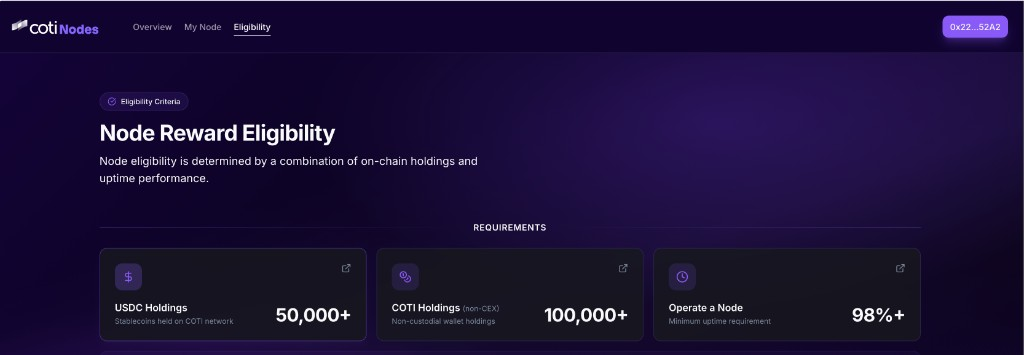
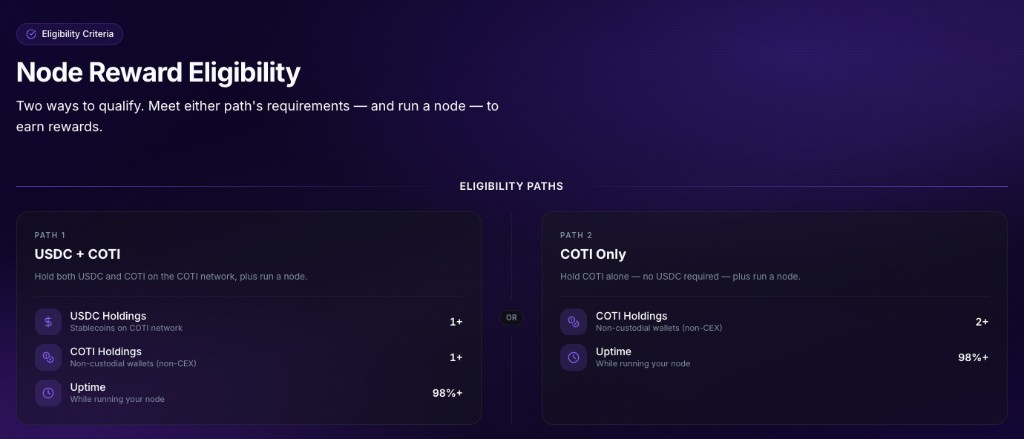
Update eligibility criteria in documentation and image
- Revised the eligibility rules in backend-services.md, features.md, and glossary.md to clarify the two distinct paths for node reward eligibility: Path 1 (USDC + COTI) and Path 2 (COTI only), emphasizing that uptime is mandatory for both.
- Enhanced the eligibility section in the README.md to reflect the updated paths and their requirements.
- Updated the eligibility image to visually represent the new criteria and paths for better user understanding.

diff --git a/node-ecosystem/ui-guide/README.md b/node-ecosystem/ui-guide/README.md
@@ -13,7 +13,7 @@ The top-level navigation exposes three tabs: **Overview**, **My Node**, and **El
 | `/setup`       | (from Join)             | 7-step guided installation wizard                               |
 | `/my-nodes`    | My Node                 | Per-operator dashboard (wallet-gated)                           |
 | `/edit-node`   | (from My Node)          | Rename your node (stored on the NFT)                            |
-| `/eligibility` | Eligibility             | Explainer of reward eligibility rules                           |
+| `/eligibility` | Eligibility             | Node reward eligibility: two paths (USDC + COTI vs COTI-only) + notes |
 | `/terms`       | (footer)                | Terms of service                                                |
 
 ## Overview (`/`)
@@ -177,7 +177,7 @@ Once the NFT exists, the dashboard shows:
 
 * **Node identity card** — NFT image, node name, `LIVE` badge, node ID (address), **Edit** button → `/edit-node`, and the headline **Total Earned** in COTI with a **Claim Now** button that withdraws the accrued balance from the rewards smart contract into the connected wallet. Operators who prefer to claim from outside the UI can also call the rewards contract directly.
 * **At-a-glance stats** — **All-Time Uptime** with a performance badge (for example _Excellent_), **Eligibility Streak (Days)**, and **COTI Claimed**.
-* **Eligibility panel** — your current USDC holdings, COTI holdings, and node uptime for the current epoch, each compared to its threshold with a progress bar. **Uptime is always required**; for the holdings requirement, meeting **either** the USDC threshold **or** the COTI threshold is enough. A row that fails shows a warning and the shortfall.
+* **Eligibility panel** — two side-by-side **paths** for the current epoch (same structure as **`/eligibility`**): **Path 1 — USDC + COTI** (USDC, COTI, and uptime bars) and **Path 2 — COTI only** (higher COTI bar and uptime). You qualify when **either** path is fully met. Each requirement shows current value vs threshold; cards show met / unmet while loading resolves.
 * **Past Epochs table** — paginated per-epoch history with columns:
   * **Epoch** — epoch number.
   * **USDC** — USDC balance at the epoch snapshot.
@@ -192,8 +192,19 @@ A focused flow that renames the node. Because the name is stored on the Soulboun
 
 ## Eligibility (`/eligibility`)
 
-<figure><img src="../../.gitbook/assets/node-ecosystem-eligibility.png" alt="Eligibility tab showing the three reward requirements: USDC Holdings, COTI Holdings, and Operate a Node uptime"><figcaption><p>The three reward requirements, with current thresholds.</p></figcaption></figure>
+<figure><img src="../../.gitbook/assets/node-ecosystem-eligibility.png" alt="Node Reward Eligibility page with Path 1 USDC plus COTI and Path 2 COTI only separated by OR"><figcaption><p><strong>Node Reward Eligibility</strong>: two paths, numeric thresholds from the rewards contract, and an <strong>OR</strong> between paths.</p></figcaption></figure>
 
-A static explainer that lists the reward requirements — **USDC Holdings**, **COTI Holdings**, and **Operate a Node** (minimum uptime) — with each threshold. A **Check My Eligibility** button opens a modal that compares the connected wallet's current values against the rules.
+The page opens with an **Eligibility Criteria** pill, the title **Node Reward Eligibility**, and the subtitle *Two ways to qualify. Meet either path's requirements — and run a node — to earn rewards.*
 
-The rule combining those requirements is: **uptime is always required**, and the wallet qualifies on holdings by meeting **either** the USDC threshold **or** the COTI threshold (see [Features → Eligibility checks](../features.md#4-eligibility-checks)).
+Under **Eligibility Paths**, two cards sit on either side of a centered **OR** divider:
+
+* **Path 1 — USDC + COTI** — *Hold both USDC and COTI on the COTI network, plus run a node.* Lists **USDC Holdings** (stablecoins on COTI network), **COTI Holdings** (non-custodial wallets; not CEX), and **Uptime** (while running your node). You must satisfy **all three** rows on this path for Path 1 to count.
+* **Path 2 — COTI only** — *Hold COTI alone — no USDC required — plus run a node.* Lists **COTI Holdings** at the **solo** threshold (higher than Path 1’s COTI bar) and **Uptime**. Both must be met for Path 2 to count.
+
+The exact numbers (for example `1+` / `2+` / `98%+`) are loaded from the on-chain eligibility rules and can differ by network or governance updates.
+
+Below the cards, an info strip states that you can meet **either** path for rewards eligibility, that balances refresh about every **24 hours**, and includes a **Check My Eligibility** button: if the connected wallet already holds a node NFT, it routes to **My Node**; otherwise it opens a modal that summarizes status and can steer you to **`/setup`**.
+
+Further down, **Important Notes** (*Things to Know*) expands on topics such as the two-path rule, that **COTI on centralized exchanges does not count**, continuous checks, and that node status is evaluated dynamically.
+
+Authoritative rule logic is summarized under [Features → Eligibility checks](../features.md#4-eligibility-checks) and [Glossary → Eligibility](glossary.md#eligibility).

diff --git a/node-ecosystem/ui-guide/glossary.md b/node-ecosystem/ui-guide/glossary.md
@@ -104,14 +104,12 @@ A fixed 103-hour reward period. At the end of each epoch, the rewards service ev
 
 ### Eligibility
 
-The set of rules a node + operator must satisfy in an epoch to receive rewards:
+The set of rules a node + operator must satisfy in an epoch to receive rewards. The web app describes **two paths**; you qualify if **either** path is fully met (see **`/eligibility`**):
 
-* **Uptime (mandatory).** Node uptime for the epoch is at least the configured percentage.
-* **Holdings (either threshold is enough).** The operator wallet meets **at least one** of:
-  * **USDC** holdings on COTI network ≥ the configured threshold, or
-  * **COTI** holdings ≥ the configured threshold (custodial and non-custodial wallets both count).
+* **Path 1 — USDC + COTI.** USDC on the COTI network ≥ combo threshold **and** COTI (non-custodial; **not** CEX) ≥ combo threshold **and** uptime ≥ configured percentage.
+* **Path 2 — COTI only.** COTI ≥ solo threshold (no USDC) **and** uptime ≥ configured percentage.
 
-Whitelisted operators are exempt from the holdings rule and only need to meet the uptime rule.
+Whitelisted operators are exempt from the holdings rules and only need to meet the uptime rule.
 
 ### Eligible
 
@@ -119,7 +117,7 @@ A node that was found eligible for rewards in at least one epoch. The home-page 
 
 ### Whitelisted
 
-An operator flag that exempts the wallet from the holdings requirement. Uptime is still required. Whitelisting is managed centrally by COTI; most operators will not be whitelisted.
+An operator flag that exempts the wallet from the **Path 1 / Path 2** holdings checks. Uptime is still required. Whitelisting is managed centrally by COTI; most operators will not be whitelisted.
 
 ### Blacklisted
 

diff --git a/node-ecosystem/features.md b/node-ecosystem/features.md
@@ -37,14 +37,12 @@ Once an operator connects a wallet that owns a COTI Node NFT, **`/my-nodes`** be
 
 ## 4. Eligibility checks
 
-Anyone can preview whether their wallet meets the reward rules before installing a node. For a node to be eligible in a given epoch **both** conditions below must hold:
+Anyone can read how reward eligibility works before installing a node. For a given epoch, an operator is eligible when **either** of these **paths** is fully satisfied (thresholds come from the **CotiNodeRewards** contract and can change):
 
-* **Uptime (mandatory).** The node's per-epoch uptime must be ≥ the configured percentage.
-* **Holdings (either threshold is enough).** The operator's wallet must meet **at least one** of the following:
-  * **USDC** holdings on COTI network ≥ the configured threshold, **or**
-  * **COTI** holdings ≥ the configured threshold (custodial and non-custodial wallets both count).
+* **Path 1 — USDC + COTI.** **All** of: USDC on the COTI network ≥ the combo USDC threshold; **COTI** (non-custodial; **not** on centralized exchanges) ≥ the combo COTI threshold; **uptime** ≥ the configured percentage.
+* **Path 2 — COTI only.** **Both** of: **COTI** ≥ the higher **solo** threshold (no USDC required); **uptime** ≥ the same percentage as Path 1.
 
-The **`/eligibility`** page explains the rules in plain language; the home page exposes a quick "Check My Eligibility" button.
+**Uptime is required on every path.** The **`/eligibility`** page explains this layout in plain language (two cards with an **OR** between them). The home page also exposes **Check My Eligibility**, which opens the same style of check in a modal or routes operators who already have a node NFT to **My Node**.
 
 ## 5. Automatic uptime monitoring
 

diff --git a/node-ecosystem/backend-services.md b/node-ecosystem/backend-services.md
@@ -95,7 +95,7 @@ At the end of each **103-hour epoch**, the rewards service:
 
 1. Snapshots each node operator's USDC and COTI holdings.
 2. Reads each node's uptime for the epoch from the monitoring platform.
-3. Applies the eligibility rules: **uptime is mandatory**, and the operator must meet **at least one** of the USDC-holdings threshold **or** the COTI-holdings threshold (with whitelist overrides for specific operators).
+3. Applies the eligibility rules: **uptime is mandatory** on every path, and the operator must satisfy **Path 1** (USDC and COTI each ≥ combo thresholds, plus uptime) **or** **Path 2** (COTI ≥ solo threshold, plus uptime), with whitelist overrides for specific operators.
 4. Allocates each eligible node its share of the epoch's reward pool in the on-chain **rewards smart contract**.
 5. Records the per-epoch result: earned amount, snapshot values, uptime %, eligibility.
 